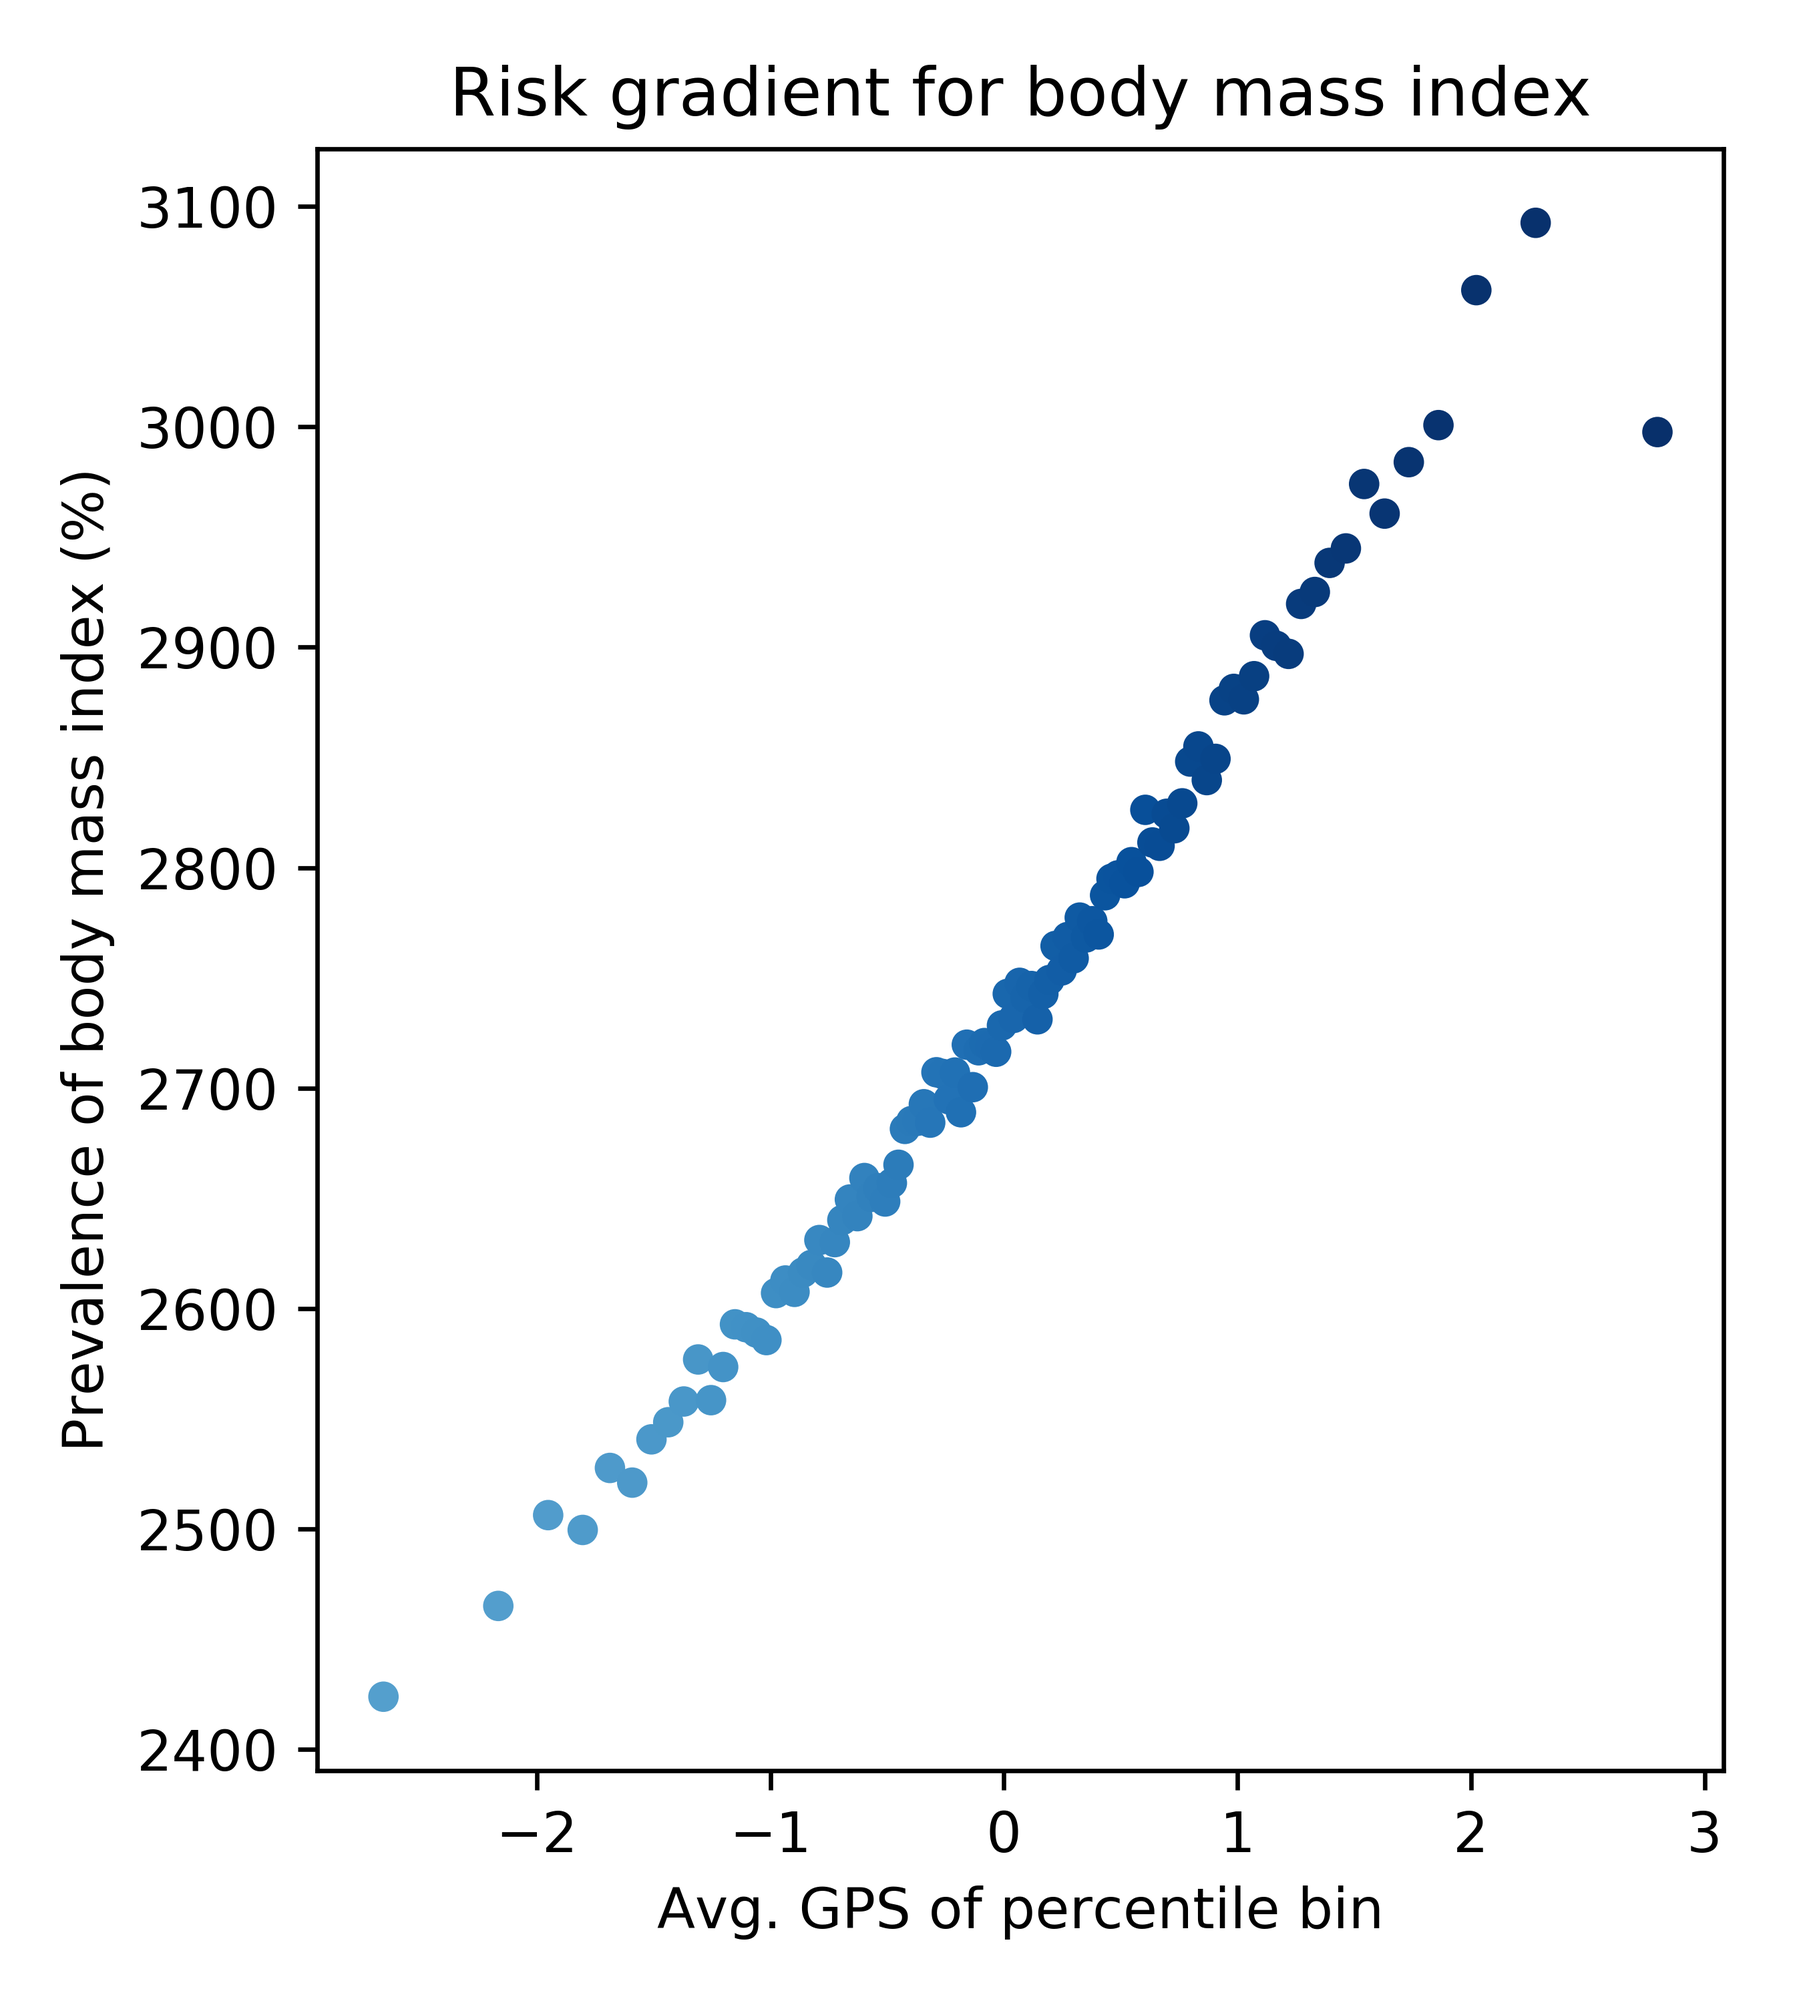
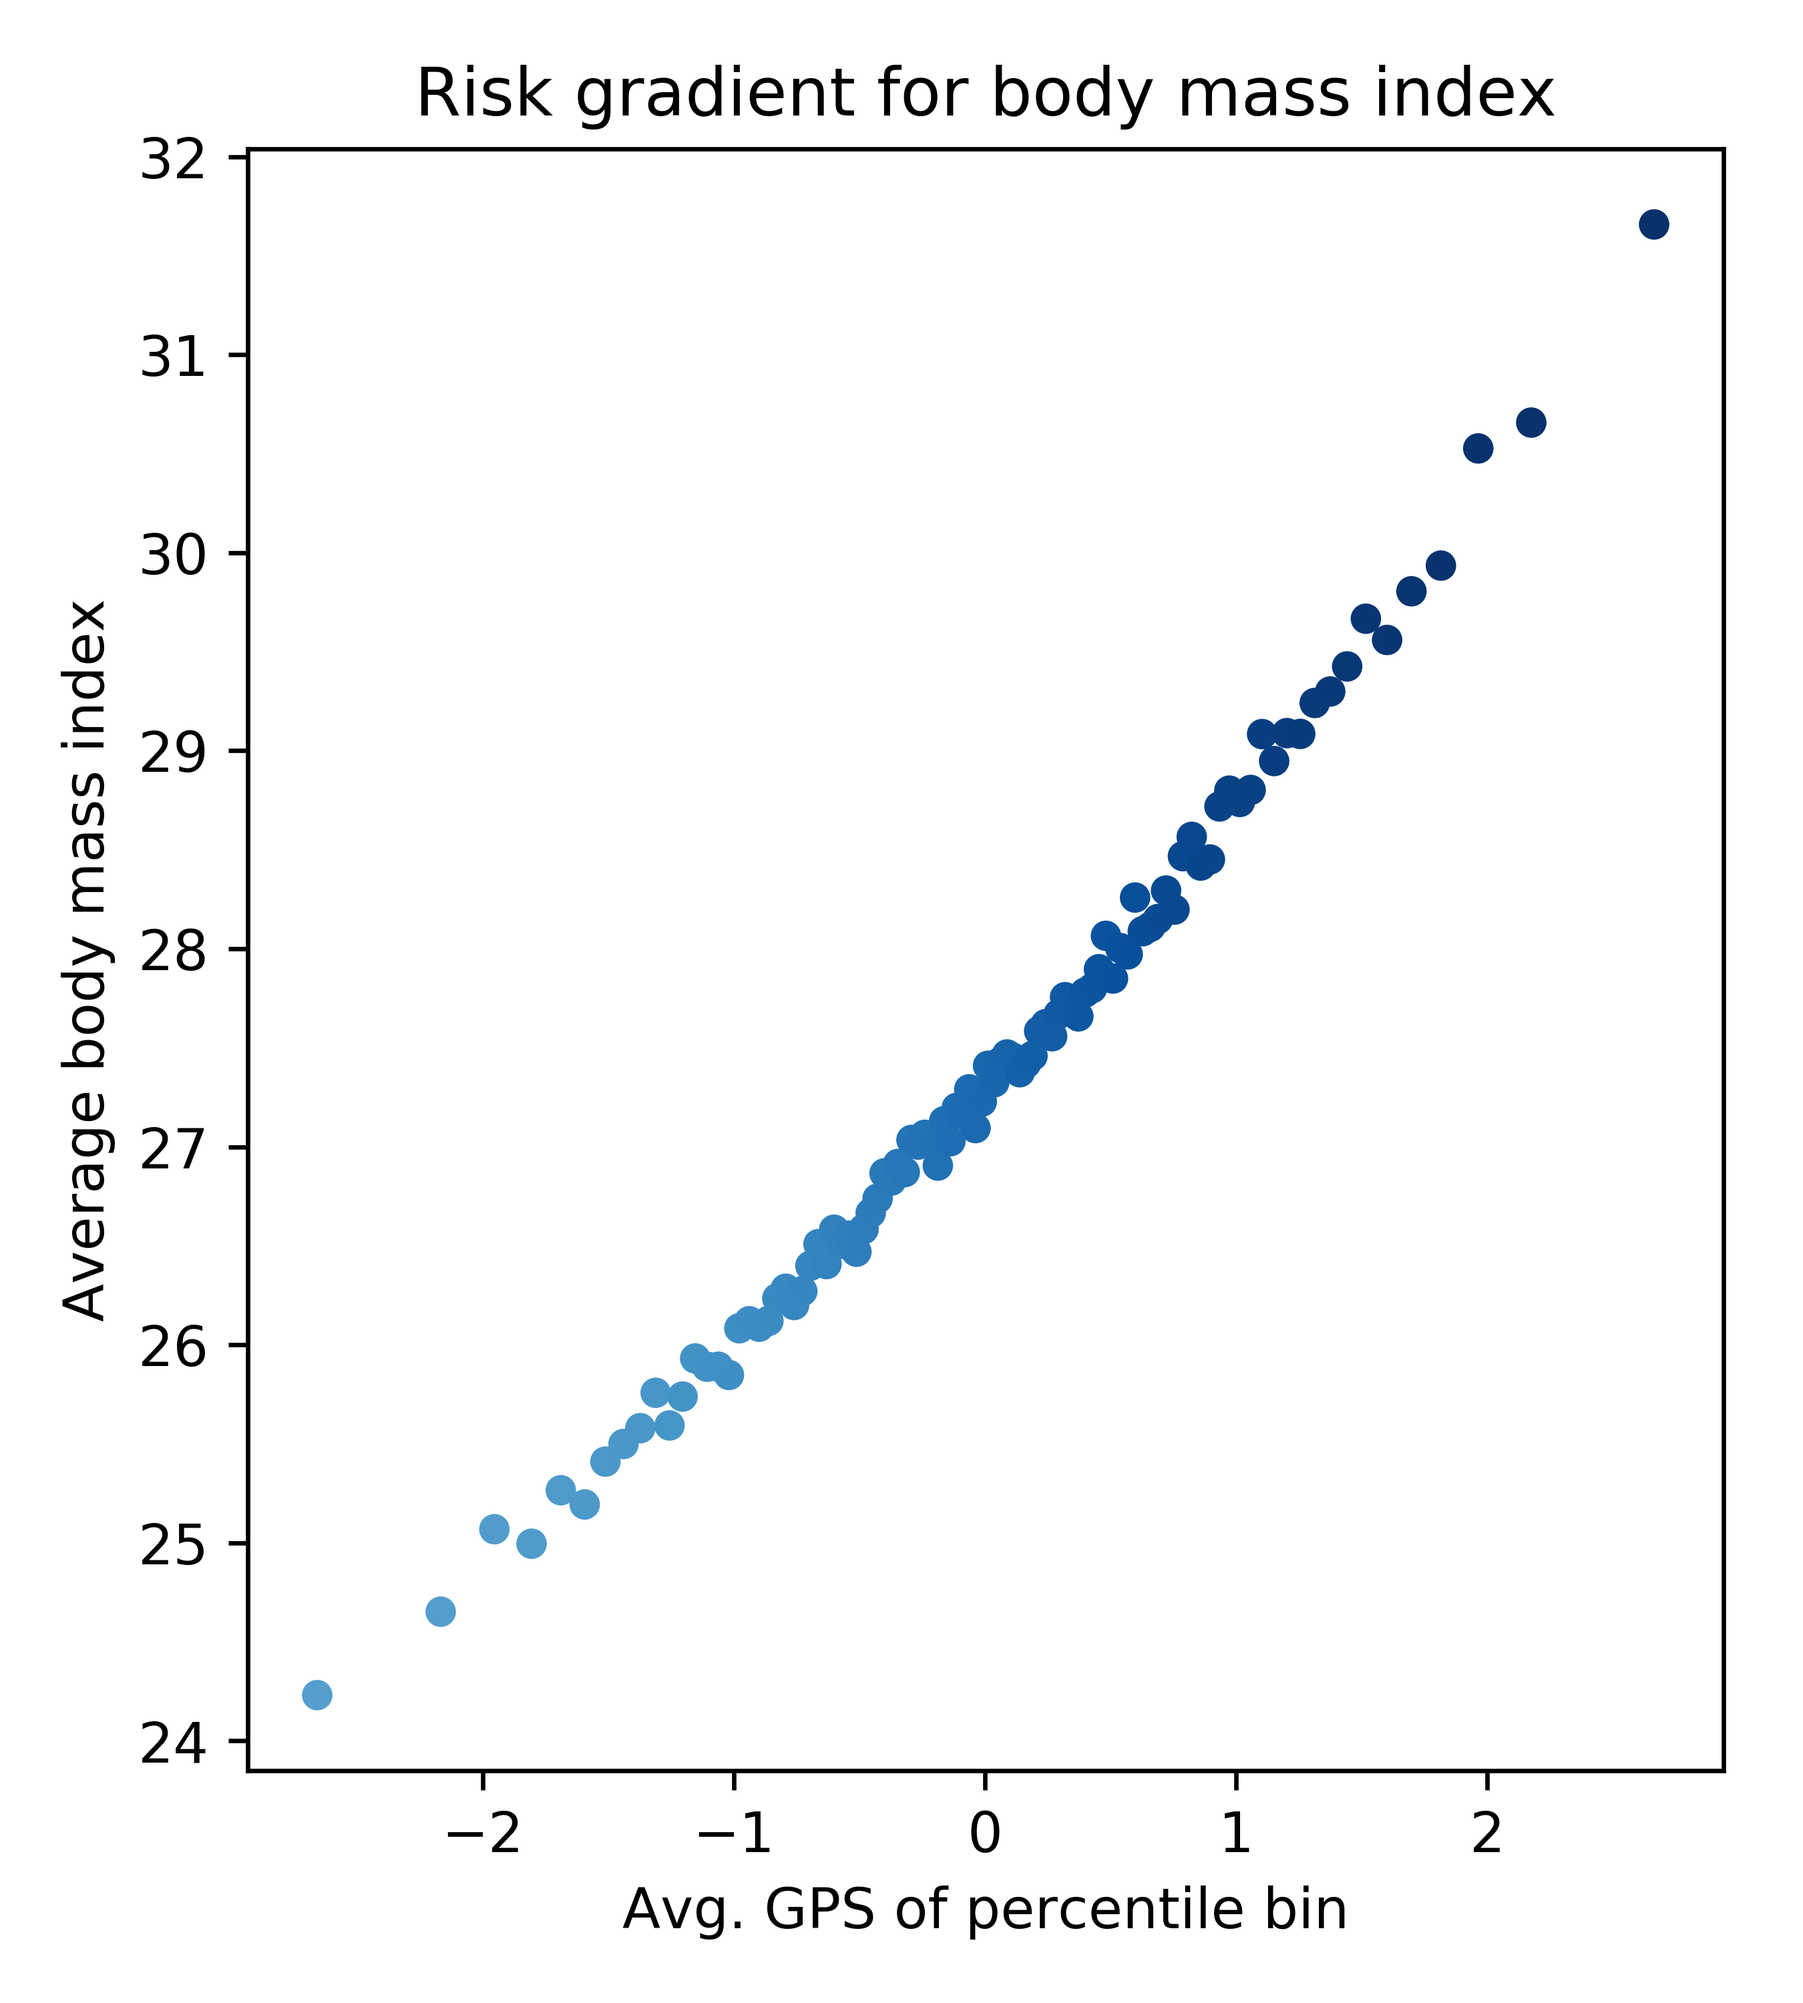
added plots for severe obesity

diff --git a/plot_risk_gradients.py b/plot_risk_gradients.py
@@ -12,7 +12,7 @@ import matplotlib.pyplot as plt
 import seaborn as sns #; sns.set(color_codes=False)
 import scipy.stats as stats
 
-df = pd.read_csv('/Users/nbaya/Documents/lab/prs/gps_6dis_alex_4.25.19.csv.gz',compression='gzip')
+df = pd.read_csv('/Users/nbaya/Documents/lab/risk_gradients/gps_6dis_alex_4.25.19.csv.gz',compression='gzip')
 df = df.rename(index=str,columns={'bmi1':'bmi'})
 no_nan = df.loc[False==np.isnan(df.gpsbmi)].copy()  #remove NaNs from gpsbmi to ensure bivariate plot for BMI works
 
@@ -42,11 +42,17 @@ diseases = {'cad':'CAD','af':'atrial fibrillation','dm':'type 2 diabetes',
             'bmi':'body mass index'}
 
 
-def risk_gradient(df, disease, x_axis='percentile',y_axis='avg_gps'):
+def risk_gradient(df, disease, x_axis='percentile',y_axis='avg_prev'):
     """
     Options for x_axis: percentile, avg_gps
-                y_axis: avg_gps, logit, inv_cdf
+                y_axis: avg_prev, logit, inv_cdf, avg
     """
+    xlabel_dict = {'percentile': 'Percentile of polygenic score',
+                   'avg_gps': 'Avg. GPS of percentile bin'}
+    ylabel_dict = {'avg_prev':f'Prevalence of {diseases[disease]} (%)',
+                   'logit': 'log(K/(1-K))',
+                   'inv_cdf':'Phi^-1(K)',
+                   'avg':f'Average {diseases[disease]}'}
     rank = stats.rankdata(df['gps'+disease])
     percentile = rank/len(df)*100
     
@@ -55,35 +61,35 @@ def risk_gradient(df, disease, x_axis='percentile',y_axis='avg_gps'):
     
     df['bin_idx'] = bin_idx
     
-    avg_dis = np.asarray([np.mean(df[df.bin_idx==i][disease]) for i in range(1,101)])
+    avg = np.asarray([np.mean(df[df.bin_idx==i][disease]) for i in range(1,101)]) #average of disease in percentile bin
+    avg_prev = 100*avg
     avg_gps = [np.mean(df[df.bin_idx==i]['gps'+disease]) for i in range(1,101)]
-    logit = [np.log(k/(1-k)) for k in avg_dis]
-    inv_cdf = [stats.norm.ppf(k) for k in avg_dis]
+    logit = [np.log(k/(1-k)) for k in avg_prev]
+    inv_cdf = [stats.norm.ppf(k) for k in avg_prev]
     
     fig,ax=plt.subplots(figsize=(4.5,5))
     if x_axis == 'percentile': #no transformation, x-axis is percentile of bins, y-axis is prevalence as %
-        plt.scatter(range(1,101),avg_dis*100,c=range(1,101),cmap='Blues',vmin=-130,vmax=100,s=20)    
-        plt.xlabel('Percentile of polygenic score')
-        plt.ylabel(f'Prevalence of {diseases[disease]} (%)')
+        if disease=='bmi':
+            y_axis='avg'
+            plt.scatter(range(1,101),avg,c=range(1,101),cmap='Blues',vmin=-130,vmax=100,s=20)    
+        else:
+            plt.scatter(range(1,101),avg_prev,c=range(1,101),cmap='Blues',vmin=-130,vmax=100,s=20)    
         plt.xticks(np.linspace(0,100,11))
     elif disease == 'bmi' and x_axis == 'avg_gps': #if disease is bmi and we transform x-axis to be the avg gps for each percentile bin        
-        plt.scatter(avg_gps,avg_dis*100,c=range(1,101),cmap='Blues',vmin=-130,vmax=100,s=20)    
-        plt.xlabel('Avg. GPS of percentile bin')
-        plt.ylabel(f'Prevalence of {diseases[disease]} (%)')
+        y_axis = 'avg'
+        plt.scatter(avg_gps,avg_prev,c=range(1,101),cmap='Blues',vmin=-130,vmax=100,s=20)    
     elif x_axis=='avg_gps' and y_axis=='logit': #x-axis is avg gps for each percentile bin, y-axis is logit transformation of prevalence
         plt.scatter(avg_gps,logit,c=range(1,101),cmap='Blues',vmin=-130,vmax=100,s=20)    
-        plt.xlabel('Avg. GPS of percentile bin')
-        plt.ylabel(f'log(K/(1-K))')
     elif x_axis=='avg_gps' and y_axis=='inv_cdf': #x-axis is avg gps for each percentile bin, y-axis is inverse cdf transformation of prevalence
         plt.scatter(avg_gps,inv_cdf,c=range(1,101),cmap='Blues',vmin=-130,vmax=100,s=20)    
-        plt.xlabel('Avg. GPS of percentile bin')
-        plt.ylabel(f'Phi^-1(K)')
     else:
         return None
+    plt.xlabel(xlabel_dict[x_axis])
+    plt.ylabel(ylabel_dict[y_axis])
     plt.title(f'Risk gradient for {diseases[disease]}')
     plt.tight_layout()
     fig=plt.gcf()
-    fig.savefig(f'/Users/nbaya/Documents/lab/prs/{disease}_riskgradient_xaxis{x_axis}_yaxis{y_axis}.png',dpi=600)
+    fig.savefig(f'/Users/nbaya/Documents/lab/risk_gradients/plots/{disease}_riskgradient_xaxis{x_axis}_yaxis{y_axis}.png',dpi=600)
     plt.close()
 
 
@@ -94,6 +100,45 @@ for disease, fullname in diseases.items():
     for y_axis in ['avg_gps','logit','inv_cdf']:
         risk_gradient(df, disease,x_axis=x_axis,y_axis=y_axis)
 
+# Plotting for sevobese
+tmp = no_nan.copy() #use version of dataset with no NaNs in gpsbmi
+rank = stats.rankdata(tmp['gpsbmi'])
+percentile = rank/len(tmp)*100
+bins = list(range(0,100))
+bin_idx = np.digitize(percentile, bins, right=True)
+tmp['bin_idx'] = bin_idx
+avg_prev = np.asarray([np.mean(tmp[tmp.bin_idx==i]['sevobese']) for i in range(1,101)]) #average prevalence of disease in percentile bin
+avg_gps = [np.mean(tmp[tmp.bin_idx==i]['gpsbmi']) for i in range(1,101)]
+logit = [np.log(k/(1-k)) for k in avg_prev]
+inv_cdf = [stats.norm.ppf(k) for k in avg_prev]
+
+fig,ax=plt.subplots(figsize=(4.5,5))
+plt.scatter(range(1,101),avg_prev*100,c=range(1,101),cmap='Blues',vmin=-130,vmax=100,s=20)    
+plt.xlabel('Percentile of polygenic score for BMI')
+plt.ylabel('Prevalence of severe obesity (%)')
+plt.title(f'Risk gradient for severe obesity')
+plt.tight_layout()
+fig=plt.gcf()
+fig.savefig(f'/Users/nbaya/Documents/lab/risk_gradients/plots/sevobese_riskgradient_xaxisavg_gps_yaxisavg_prev.png',dpi=600)
+
+ylabel_dict = {'logit': 'log(K/(1-K))',
+               'inv_cdf':'Phi^-1(K)'}
+for y_axis, ylabel in ylabel_dict.items():
+    fig,ax=plt.subplots(figsize=(4.5,5))
+    if y_axis=='logit':
+        plt.scatter(avg_gps,logit,c=range(1,101),cmap='Blues',vmin=-130,vmax=100,s=20)    
+    else:
+        plt.scatter(avg_gps,inv_cdf,c=range(1,101),cmap='Blues',vmin=-130,vmax=100,s=20)    
+    plt.ylabel(ylabel)
+    plt.xlabel('Avg. GPS of percentile bin for BMI')
+    plt.title(f'Risk gradient for {diseases[disease]}')
+    plt.tight_layout()
+    fig=plt.gcf()
+    fig.savefig(f'/Users/nbaya/Documents/lab/risk_gradients/plots/sevobese_riskgradient_xaxisavg_gps_yaxisavg_prev.png',dpi=600)
+
+
+
+
 # Plotting bivariate distribution for BMI
 R,p = stats.pearsonr(no_nan.bmi,no_nan.gpsbmi)
 
@@ -102,7 +147,7 @@ plt.plot(np.linspace(10,40,2),R*(np.linspace(10,40,2)-np.mean(no_nan.bmi)),alpha
 sns.kdeplot(no_nan.bmi, no_nan.gpsbmi,n_levels=10,cmap='Blues',ax=ax,shade=True,shade_lowest=False)
 plt.tight_layout()
 fig=plt.gcf()
-fig.savefig(f'/Users/nbaya/Documents/lab/prs/bmi_bivariatekde.png',dpi=600)
+fig.savefig(f'/Users/nbaya/Documents/lab/risk_gradients/plots/bmi_bivariatekde.png',dpi=600)
 
 
 # Plotting histograms
@@ -119,7 +164,7 @@ for disease, fullname in diseases.items():
     plt.xlim([-5,5])
     plt.ylim([0,24000])
     fig=plt.gcf()
-    fig.savefig(f'/Users/nbaya/Documents/lab/prs/{disease}_hist.png',dpi=600)
+    fig.savefig(f'/Users/nbaya/Documents/lab/risk_gradients/plots/{disease}_hist.png',dpi=600)
     
 # Make p-p plot
 for disease, fullname in diseases.items():
